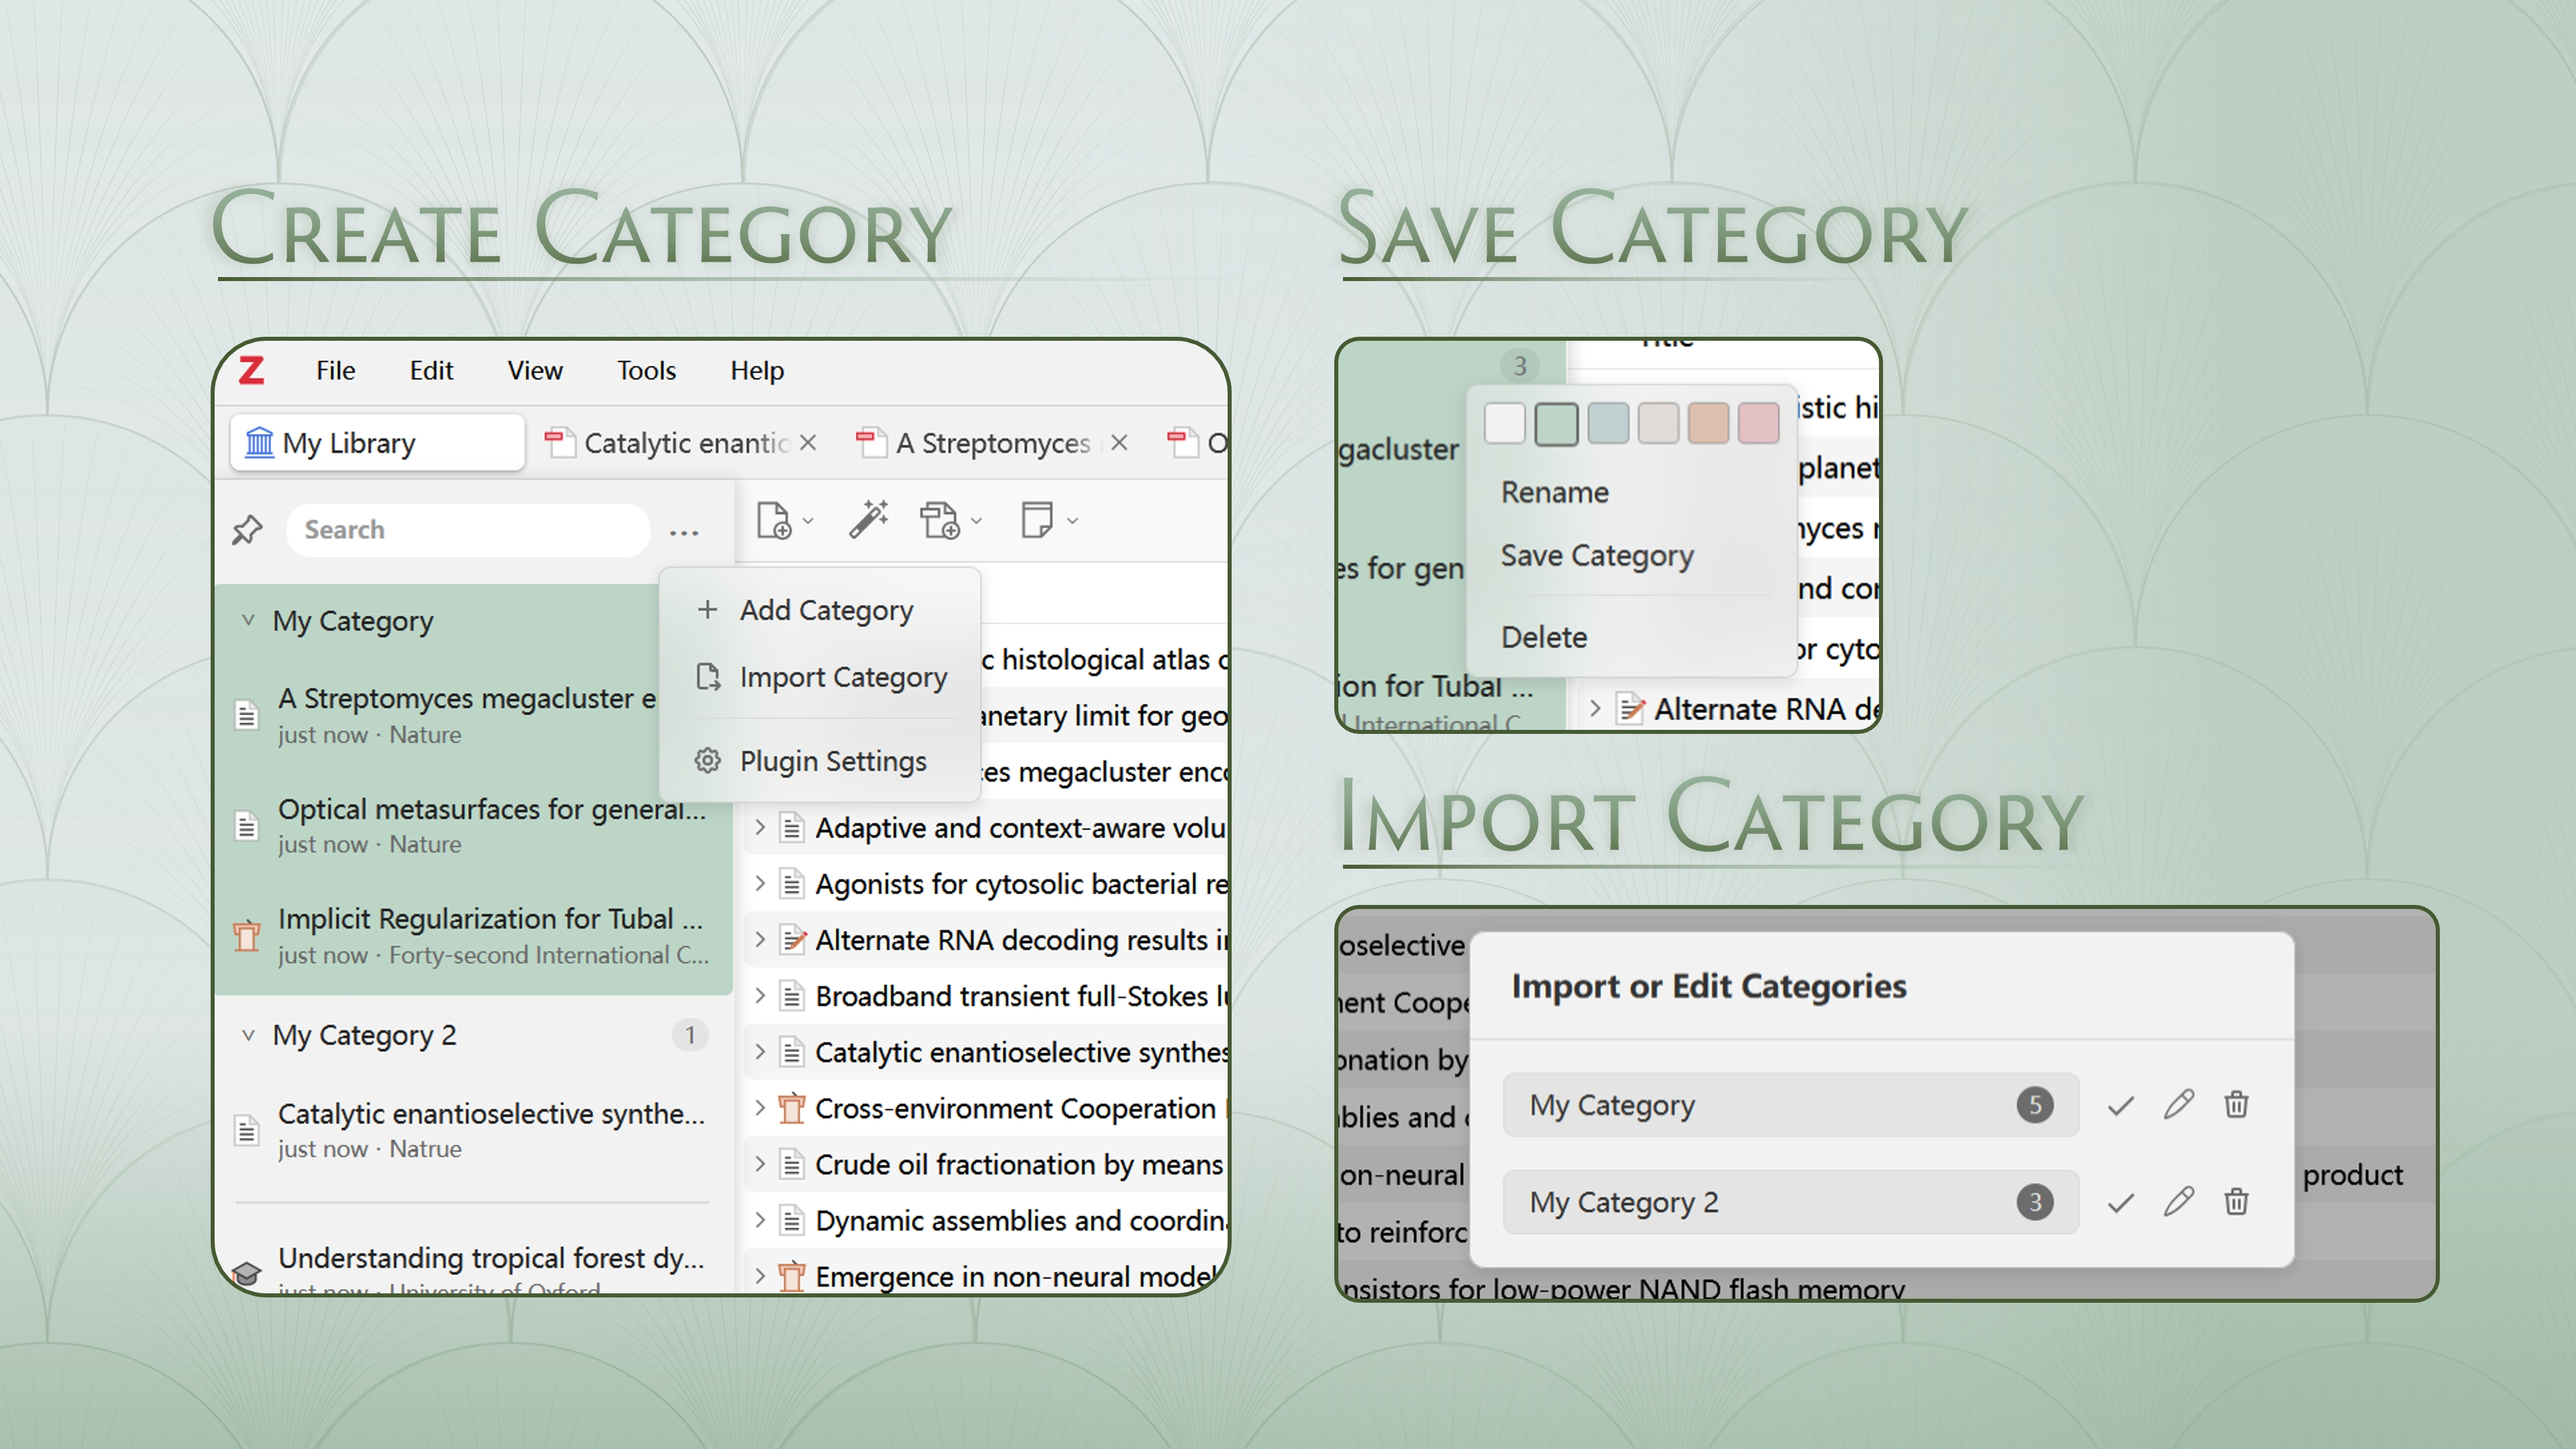
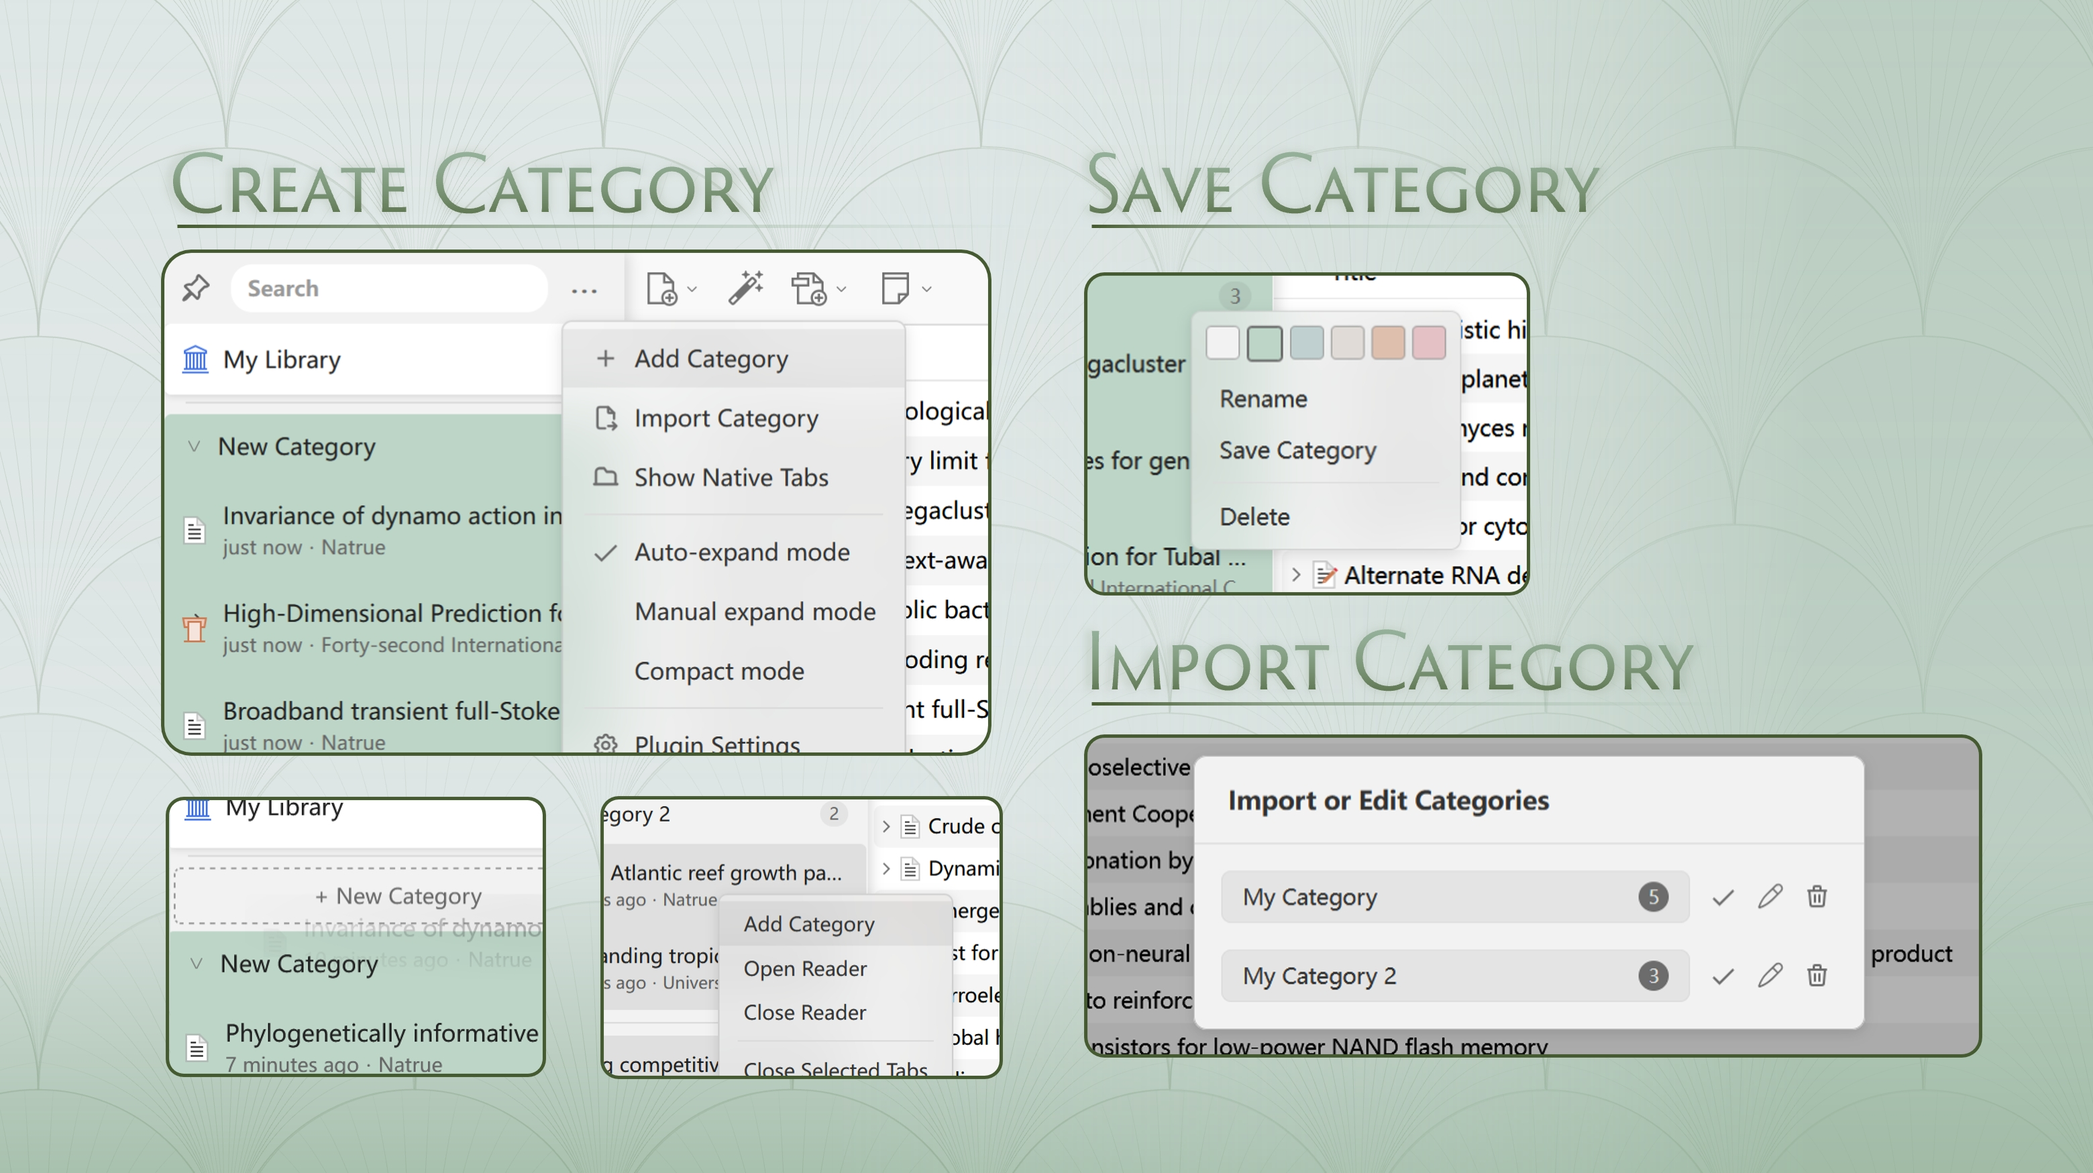
feat: Update hover card positioning logic and enhance documentation with new images

diff --git a/src/modules/ui/hoverCardShell.ts b/src/modules/ui/hoverCardShell.ts
@@ -195,11 +195,12 @@ function positionCard(
   if (left + size.width > winWidth) {
     left = Math.max(8, rect.left - size.width - 8);
   }
-  const centerY =
-    useMouseY && opts.mouseY != null
-      ? opts.mouseY
-      : rect.top + rect.height / 2;
-  let top = centerY - size.height / 2;
+  let top: number;
+  if (useMouseY && opts.mouseY != null) {
+    top = opts.mouseY - size.height / 2;
+  } else {
+    top = rect.top;
+  }
   top = Math.max(8, Math.min(top, winHeight - size.height - 8));
 
   card.style.left = `${left}px`;

diff --git a/README.md b/README.md
@@ -20,7 +20,7 @@ This plugin helps you manage open tabs through a vertical sidebar, making it fas
 
 After installing the plugin, a vertical tabs sidebar (VT) appears on the left side of the main window. It automatically expands when you hover over it and collapses when you move the cursor away.
 
-![Category](.\doc\figs\VT.gif)
+![VT](.\doc\figs\VT.gif)
 
 The main window VT currently supports:
 
@@ -30,21 +30,67 @@ The main window VT currently supports:
 
 3. **Tab Search**: Quickly filter open tabs via the search box at the top.
 
-4. **Category Management**: Create categories and set category colors via right-click (colors can be customized in the plugin preferences).
+4. **Drag & Drop**: Drag tabs to reorder or categorize them; entire categories can also be dragged. Use **Ctrl/Shift+click** to multi-select tabs for batch drag-and-drop.
 
-5. **Drag & Drop**: Drag tabs to reorder or categorize them; entire categories can also be dragged.
-
-6. **Save & Import Categories**: Save frequently used categories locally and import them with one click when needed.
+5. **Save & Import Categories**: Save frequently used categories locally and import them with one click when needed.
 
    ![Category](.\doc\figs\Category.jpg)
 
-## 3⃣ Preferences
+## 2⃣ Category Creation
+
+The plugin provides three ways to create categories, making it easy to organize tabs by project, topic, or reading plan:
+
+- **① Right-Click Menu**: Select one or more tabs, right-click → "Add Category".
+
+  <img src=".\doc\figs\add1.jpg" width="300" />
+
+- **② Drag to "+ New Category" Drop Zone**: Drag tabs to the dashed box at the top of the sidebar and release to create a new category.
+
+  <img src=".\doc\figs\add2.gif" width="300" />
+
+- **③ More Menu**: Click "More" → "Add Category" in the top-right corner to create an empty category, then drag tabs into it.
+
+  <img src=".\doc\figs\add3.jpg" width="300" />
+
+## 3⃣ Expand Modes
+
+The "More" menu offers three sidebar expand modes to suit different workflows:
+
+| Mode | Behavior |
+|------|----------|
+| **Auto** | Automatically expands on hover, collapses on mouse leave — ideal for quickly browsing tabs |
+| **Manual** | Hover does not expand; click the Pin button to expand. Stays expanded until the Pin button is clicked again |
+| **Minimal** | Same as Manual, but the collapsed strip shrinks to a 20px icon-only bar, for minimal visual distraction |
+
+Mode changes take effect immediately across all windows.
+
+## 4⃣ PDF Reader Management
+
+Zotero runs PDF readers in isolated sandboxes. The more readers are open, the more memory is consumed. This plugin provides the following tools to manage reader resources:
+
+- **Green Highlight Indicator**: Tabs with an open PDF reader display a green vertical bar on the far left — recognizable at a glance (can be disabled in Preferences).
+
+- **Manual Reader Close/Open**: Right-click a tab → "Close Reader" / "Open Reader" to instantly free memory — without affecting the tab itself.
+
+- **Auto-Close Idle Readers**: Enabled by default. The plugin automatically closes PDF readers that have not been read for a specified number of minutes. Default is 120 minutes, adjustable in Preferences.
+
+## 5⃣ Auto-Close Idle Tabs
+
+To prevent tab clutter from long-unread tabs, the plugin can automatically close tabs that have not been read for a specified number of days.
+
+- **Disabled by default**: Must be manually enabled in Preferences.
+- A configurable day threshold — tabs unread beyond this limit are automatically closed.
+
+## 6⃣ Preferences
 
 The plugin provides the following preferences (`Edit` → `Preferences` → `Better Vertical Tabs`):
 
 - **Custom Tab Height**: Adjust the display height of individual tab items in VT.
+- **Expand Mode**: Switch between Auto / Manual / Minimal modes.
 - **Enable Blur Effect**: Use a frosted-glass background for popups/hover cards; disable it if your environment does not support `backdrop-filter` or based on personal preference.
-- **Auto-Close Unread Tabs**: Automatically close tabs that have not been read for X days. This feature is disabled by default and must be enabled manually.
+- **PDF Reader Highlight Indicator**: Show a green indicator bar on tabs with an open PDF reader; can be disabled.
+- **Auto-Close Idle Readers**: When enabled, PDF readers idle for more than X minutes are automatically closed.
+- **Auto-Close Idle Tabs**: When enabled, tabs idle for more than X days are automatically closed; disabled by default.
 
 ---
 
@@ -60,7 +106,7 @@ The plugin provides the following preferences (`Edit` → `Preferences` → `Bet
 
 # ⚠ Known Issues
 
-1. Currently, VT only synchronizes tab order from the Zotero native tab bar in one direction: dragging tabs in the native tab bar will not sync their order to VT, which may cause inconsistencies. It is recommended to manage tab order using VT.
+1. Currently, VT only synchronizes tab order from the Zotero native tab bar in one direction: dragging tabs in the native tab bar will not sync their order to VT, which may cause inconsistencies. It is recommended to manage tab order using VT, or use "More → Hide Native Tabs" to show only the vertical tab bar.
 
 ---
 

diff --git a/doc/README-zhCN.md b/doc/README-zhCN.md
@@ -20,7 +20,7 @@
 
 加载插件后，主页面最左侧会出现垂直标签栏（VT）。鼠标悬停在该区域时 VT 会自动展开，移出后自动折叠。
 
-![Category](.\figs\VT.gif)
+![VT](.\figs\VT.gif)
 
 目前主页面 VT 已实现：
 
@@ -30,21 +30,67 @@
 
 3. **搜索标签**：在顶部搜索框快速过滤已打开的标签。
 
-4. **分类管理**：支持新建分类，右键分类栏可设置分类颜色（颜色可在插件首选项内自定义）。
+4. **拖拽整理**：支持拖拽标签调整顺序或归类，整个分类也可以统一拖拽。可使用 **Ctrl/Shift+左键**多选标签进行批量拖拽。
 
-5. **拖拽整理**：支持拖拽标签调整顺序或归类，整个分类也可以统一拖拽。
-
-6. **分类保存与导入**：可将常用分类保存到本地，需要时一键导入。
+5. **分类保存与导入**：可将常用分类保存到本地，需要时一键导入。
 
    ![Category](.\figs\Category.jpg)
 
-## 3⃣ 首选项设置
+## 2⃣ 分类创建
+
+本插件提供三种方式新建分类，方便用户按项目、主题或阅读计划组织标签：
+
+- **① 右键菜单新建**：选中一个或多个标签后右键 →「添加分类」。
+
+  <img src=".\figs\add1.jpg" width="300" />
+
+- **② 拖拽至 "+ 新建分类" 落区**：将标签拖拽到侧边栏顶部的虚线框，松开即创建新分类。
+
+  <img src=".\figs\add2.gif" width="300" />
+
+- **③ 更多菜单新建**：点击右上角「更多」→「添加分类」，创建空分类后可拖入标签。
+
+  <img src=".\figs\add3.jpg" width="300" />
+
+## 3⃣ 展开模式
+
+插件的「更多」菜单提供三种侧边栏展开模式，适配不同使用习惯：
+
+| 模式 | 行为 |
+|------|------|
+| **自动** | 鼠标悬停折叠条时自动展开、移出自动折叠，适合快速翻阅标签 |
+| **手动** | 悬停不展开，需点击 Pin 按钮才展开，展开后保持打开直到再次点击 Pin 按钮折叠 |
+| **最小** | 同手动模式，但折叠条进一步收窄为仅图标的 20px 条，适合追求最小视觉干扰的用户 |
+
+模式切换后立即生效，所有窗口同步。
+
+## 4⃣ PDF 阅读器管理
+
+Zotero 的 PDF 阅读器在沙盒中运行，打开越多内存占用越大。本插件提供以下工具帮助管理阅读器资源：
+
+- **绿色高亮指示条**：左侧带有已打开 PDF 阅读器的标签，最左边会显示一条绿色竖线，一眼可辨（可在首选项中关闭）。
+
+- **手动关闭/打开阅读器**：标签右键菜单 →「关闭阅读器」/「打开阅读器」可即时释放内存，不影响标签本身。
+
+- **自动关闭闲置阅读器**：默认开启，插件会自动关闭超过指定分钟数未阅读的 PDF 阅读器。默认 120 分钟，可在「首选项」中调整或关闭。
+
+## 5⃣ 自动关闭闲置标签
+
+为避免标签栏堆积过多长期未读的标签，插件支持自动关闭超过指定天数未读的标签。
+
+- **默认不开启**：需在「首选项」中手动启用。
+- 可设置关闭天数阈值，超过该天数未阅读的标签将被自动关闭。
+
+## 6⃣ 首选项设置
 
 插件提供以下首选项（`编辑` → `首选项` → `Better Vertical Tabs`）：
 
 - **标签高度自定义**：调整 VT 中单个标签项的显示高度。
+- **展开模式切换**：在自动 / 手动 / 最小三种模式间切换。
 - **启用磨砂效果**：在弹窗/悬浮卡片中使用磨砂背景，兼容不支持 `backdrop-filter` 的环境或用户个人偏好。
-- **自动清除未读标签**：可设置超过 X 天没有阅读的标签自动关闭，默认关闭，需手动开启。
+- **PDF 阅读器高亮指示**：对已打开 PDF 阅读器的标签显示绿色指示条，可关闭。
+- **自动关闭闲置阅读器**：开启后，超过 X 分钟未阅读的 PDF 阅读器自动关闭。
+- **自动关闭闲置标签**：开启后，超过 X 天未阅读的标签自动关闭，默认关闭。
 
 ---
 
@@ -60,7 +106,7 @@
 
 # ⚠ 可能存在的 bug
 
-1. 目前 VT 只实现了对 Zotero 原生标签单方面的顺序同步：拖拽原生标签栏不会同步改变 VT 的顺序，可能造成显示不一致。建议尽量使用 VT 管理标签顺序。
+1. 目前 VT 只实现了对 Zotero 原生标签单方面的顺序同步：拖拽原生标签栏不会同步改变 VT 的顺序，可能造成显示不一致。建议尽量使用 VT 管理标签顺序。或者在“更多->关闭原生标签”，只显示垂直标签栏。
 
 ---
 
